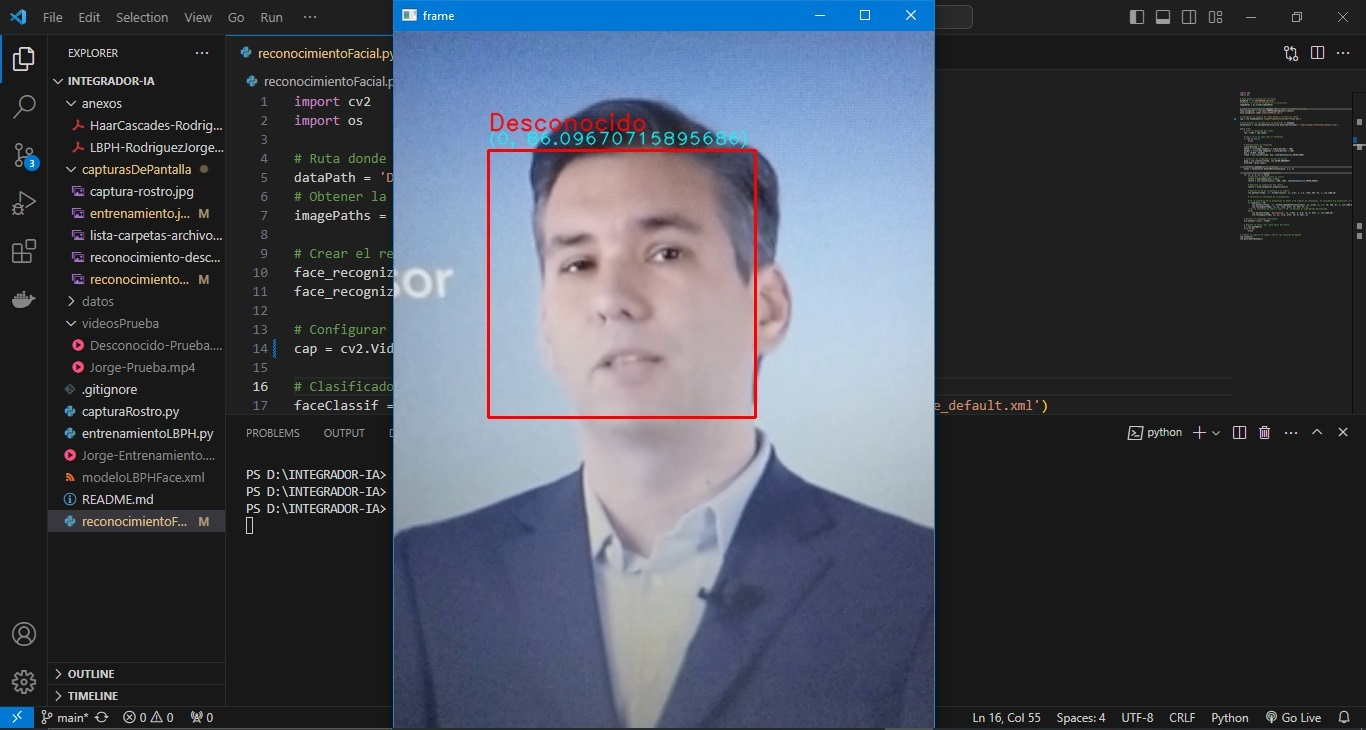
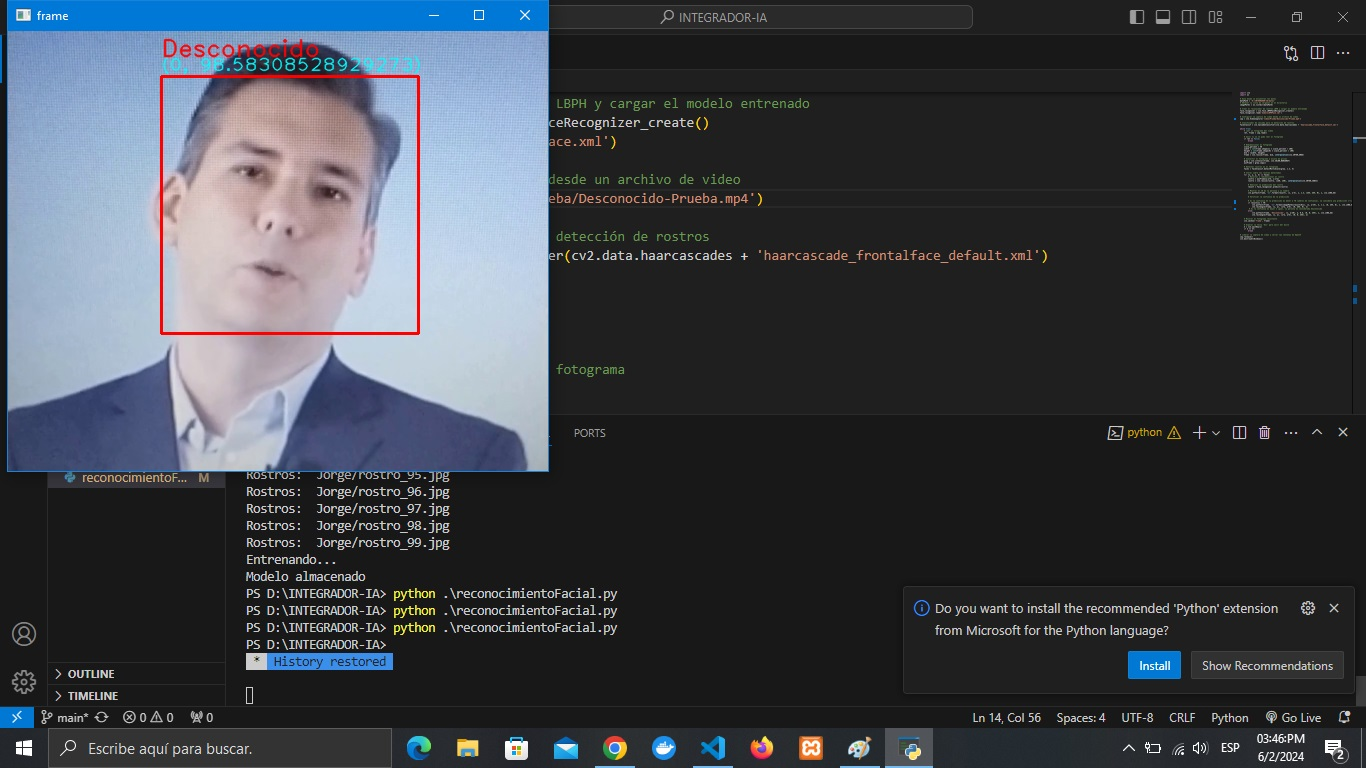
correcciones (parcial)

diff --git a/reconocimientoFacial.py b/reconocimientoFacial.py
@@ -2,7 +2,7 @@ import cv2
 import os
 
 # Ruta donde se encuentran los datos
-dataPath = 'D:/INTEGRADOR-IA/datos'
+dataPath = 'ruta/datos'
 # Obtener la lista de imágenes en el directorio
 imagePaths = os.listdir(dataPath)
 
@@ -11,7 +11,7 @@ face_recognizer = cv2.face.LBPHFaceRecognizer_create()
 face_recognizer.read('modeloLBPHFace.xml')
 
 # Configurar la captura de video desde un archivo de video
-cap = cv2.VideoCapture('videosPrueba/Jorge-Prueba.mp4')
+cap = cv2.VideoCapture('ruta/archivo/video/reconocimiento.mp4')
 
 # Clasificador de cascada para la detección de rostros
 faceClassif = cv2.CascadeClassifier(cv2.data.haarcascades + 'haarcascade_frontalface_default.xml')
@@ -52,11 +52,11 @@ while True:
 
         # Verificar la confianza de la predicción
 
-        # Si la confianza de la predicción es menor a 50 (umbral de confianza), se considera una predicción válida
-        if result[1] < 50:
+        # Si la confianza de la predicción es menor a 70 (umbral de confianza), se considera una predicción válida
+        if result[1] < 70:
             cv2.putText(frame, '{}'.format(imagePaths[result[0]]), (x, y-25), 2, 1.1, (0, 255, 0), 1, cv2.LINE_AA)
             cv2.rectangle(frame, (x, y), (x+w, y+h), (0, 255, 0), 2)
-         # Si la confianza es mayor o igual a 70, la persona es considerada desconocida
+         # Si la confianza es mayor o igual, la persona es considerada desconocida
         else:
             cv2.putText(frame, 'Desconocido', (x, y-20), 2, 0.8, (0, 0, 255), 1, cv2.LINE_AA)
             cv2.rectangle(frame, (x, y), (x+w, y+h), (0, 0, 255), 2)

diff --git a/capturaRostro.py b/capturaRostro.py
@@ -6,7 +6,7 @@ import imutils
 personName = 'Jorge'
 
 # Ruta donde se guardarán los datos
-dataPath = 'D:/INTEGRADOR-IA/datos'
+dataPath = 'ruta/datos'
 personPath = dataPath + '/' + personName
 
 # Verificar si la carpeta para la persona existe, si no, crearla
@@ -16,7 +16,7 @@ if not os.path.exists(personPath):
 
 # Configurar la captura de video desde la cámara o un archivo de video
 # cap = cv2.VideoCapture(0, cv2.CAP_DSHOW)
-cap = cv2.VideoCapture('Jorge-Entrenamiento.mp4')
+cap = cv2.VideoCapture('ruta/archivo/video/captura.mp4')
 
 # Cargar el clasificador de cascada para la detección de rostros
 faceClassif = cv2.CascadeClassifier(cv2.data.haarcascades + 'haarcascade_frontalface_default.xml')
@@ -65,7 +65,7 @@ while True:
 
     # Esperar una tecla (1 milisegundo) y verificar si se presionó 'Esc' o se capturaron más de 300 rostros
     k = cv2.waitKey(1)
-    if k == 27 or count >= 300:
+    if k == 27 or count >= 600:
         break
 
 # Liberar la captura de video y cerrar las ventanas de OpenCV

diff --git a/entrenamientoLBPH.py b/entrenamientoLBPH.py
@@ -3,7 +3,7 @@ import os
 import numpy as np
 
 # Ruta donde se encuentran los datos de entrenamiento
-dataPath = 'D:/INTEGRADOR-IA/datos'
+dataPath = 'ruta/datos'
 
 # Listado de personas para reconocimiento
 peopleList = os.listdir(dataPath)

diff --git a/README.md b/README.md
@@ -1,12 +1,12 @@
 # Reconocimiento Facial con el lenguaje Python usando OpenCV y el método Local Binary Patterns Histograms (LBPH) 
 
-### Materia: Inteligencia Artificial y Sistemas Expertos
+## Materia: Inteligencia Artificial y Sistemas Expertos
 
-### Año: 2024
+## Año: 2024
 
-### Profesoras: Alice Raquel Rambo y Graciela Sandra Zacharski
+## Profesoras: Alice Raquel Rambo y Graciela Sandra Zacharski
 
-### Autor: Jorge Fernando Rodriguez - LS00339
+## Autor: Jorge Fernando Rodriguez - LS00339
 
 ## Introducción
 
@@ -36,7 +36,7 @@ Es una herramienta para encontrar objetos específicos en imágenes, como por ej
 
 El método LBPH es una forma de enseñar a una computadora a reconocer caras en imágenes. En lugar de mirar los colores de la imagen, LBPH se enfoca en los patrones pequeños y detalles, como las texturas en la cara. Divide la cara en pedazos pequeños y comparas cómo se ven esos pedazos. Luego, se utiliza esta información para decirle a la computadora cómo es la cara de alguien. Es una forma efectiva de hacer que una computadora aprenda a reconocer rostros en fotos.
 
-Es más robusto ante cambios de iluminación. La idea es no mirar la imagen completa como un vector de alta dimensión, sino describir solo las características locales de un objeto. 
+La idea es no mirar la imagen completa como un vector de alta dimensión, sino describir solo las características locales de un objeto. 
 
 [ver más detalles](https://github.com/jorferr89/reconocimiento-rostro-ia/blob/main/anexos/LBPH-RodriguezJorgeFernando.pdf)
 
@@ -46,19 +46,21 @@ Para la realización del reconocimiento facial se necesitarán los rostros de la
 
 [ver código](https://github.com/jorferr89/reconocimiento-rostro-ia/blob/main/capturaRostro.py)
 
-### Prueba
+### Captura de pantalla
 
 ![Captura Rostro](/capturasDePantalla/captura-rostro.jpg)
 
+![Captura Rostro](/capturasDePantalla/captura-rostro-cuerpo-entero.jpg)
+
 ## Preparación de los datos, Entrenamiento y Almacenamiento del Modelo
 
-Antes de proceder con el entrenamiento es necesario asociar una etiqueta a cada persona (entrenamiento supervisado). Ejemplo: cuando leamos la carpeta ‘Persona 1’ todas esas imágenes se les asignará etiqueta 0, luego a todas imágenes de los rostros de ‘Persona 2’ se asignará 1,  de ‘Persona 3’ se asignará 2, y así sucesivamente. Con cada etiqueta la computadora sabrá que las imágenes pertenecen a personas distintas. El código está preparado para entrenarlo con más de una persona, pero las pruebas serán realizadas para que me reconozca unicamente a mí.
+Antes de proceder con el entrenamiento es necesario asociar una etiqueta a cada persona (entrenamiento supervisado). Ejemplo: cuando leamos la carpeta ‘Persona 1’ todas esas imágenes se les asignará etiqueta 0, luego a todas imágenes de los rostros de ‘Persona 2’ se asignará 1,  de ‘Persona 3’ se asignará 2, y así sucesivamente. Con cada etiqueta la computadora sabrá que las imágenes pertenecen a personas distintas. El código está preparado para entrenarlo con más de una persona, pero las pruebas serán realizadas para que me reconozca únicamente a mí.
 
-Una vez entrenado el modelo, se lo puede almacenar. ¿Para qué nos sirve? Para leerlo en otro script, y nos ahorramos de volver a entrenarlo.
+Una vez entrenado el modelo, se lo puede almacenar, para leerlo en otro script, y nos ahorramos de volver a entrenarlo.
 
 [ver código](https://github.com/jorferr89/reconocimiento-rostro-ia/blob/main/entrenamientoLBPH.py)
 
-### Prueba
+### Captura de pantalla
 
 ![Entrenamiento](/capturasDePantalla/entrenamiento.jpg)
 
@@ -66,9 +68,29 @@ Una vez entrenado el modelo, se lo puede almacenar. ¿Para qué nos sirve? Para 
 
 [ver código](https://github.com/jorferr89/reconocimiento-rostro-ia/blob/main/reconocimientoFacial.py)
 
-### Prueba
+### Capturas de pantalla
+
+#### Con el mismo video que se utilizó para el entrenamiento
+
+El reconocimiento con el mismo video que se entrenó funcionó con la confianza de predicción (umbral de 70).
 
 ![Captura Rostro](/capturasDePantalla/reconocimiento-jorge.jpg)
+
+#### Con otro video
+
+El reconocimiento con otro video funcionó con la confianza de predicción (umbral de 70).
+
+![Captura Rostro](/capturasDePantalla/reconocimiento2-jorge.jpg)
+
+Con el video de cuerpo entero, el valor de confianza se debió modificar, ya que se utilizó otro fondo y otra luminocidad, pero se notó problemas al comparar el rostro entrenado con el del desconocido (varias veces se reconoció erroreamente).
+
+![Captura Rostro](/capturasDePantalla/reconocimiento3-jorge.jpg)
+
+Nota: para el óptimo funcionamiento del reconocimiento con LBPH, se debe capturar y entrenar rostros con imágenes que no sean de cuerpo entero, en el ambiente donde se desea realizar el reconocimiento y con la luminocidad adecuada.
+
+#### Con un rostro desconocido
+
+El reconocimiento con un video de un desconocido funcionó con la confianza de predicción (umbral de 70).
 
 ![Captura Rostro](/capturasDePantalla/reconocimiento-desconocido.jpg)
 
@@ -76,7 +98,7 @@ Una vez entrenado el modelo, se lo puede almacenar. ¿Para qué nos sirve? Para 
 
 El reconocimiento facial mediante el uso de Python, OpenCV y el método Local Binary Patterns Histograms (LBPH) ofrece una solución efectiva y eficiente para identificar rostros en imágenes. Esta técnica proporciona una representación robusta de las texturas faciales, lo que resulta en un sistema preciso y rápido.
 
-Como posible investigación futura, se podría explorar la implementación de este proyecto con una ESP32-CAM. La combinación de la ESP32-CAM con el código Python desarrollado para el reconocimiento facial brinda la oportunidad de construir sistemas compactos y autónomos, los cuales pueden integrarse en diversas aplicaciones, como la seguridad en el hogar, el control de acceso o incluso la automatización de procesos.
+Como posible investigación futura, se podría explorar la implementación de este proyecto con una ESP32-CAM. La combinación de la ESP32-CAM con el código Python desarrollado para el reconocimiento facial brinda la oportunidad de construir sistemas compactos y autónomos, los cuales pueden integrarse en diversas aplicaciones, como la seguridad en el hogar, el control de acceso, etc.
 
 ## Bibliografía
 
